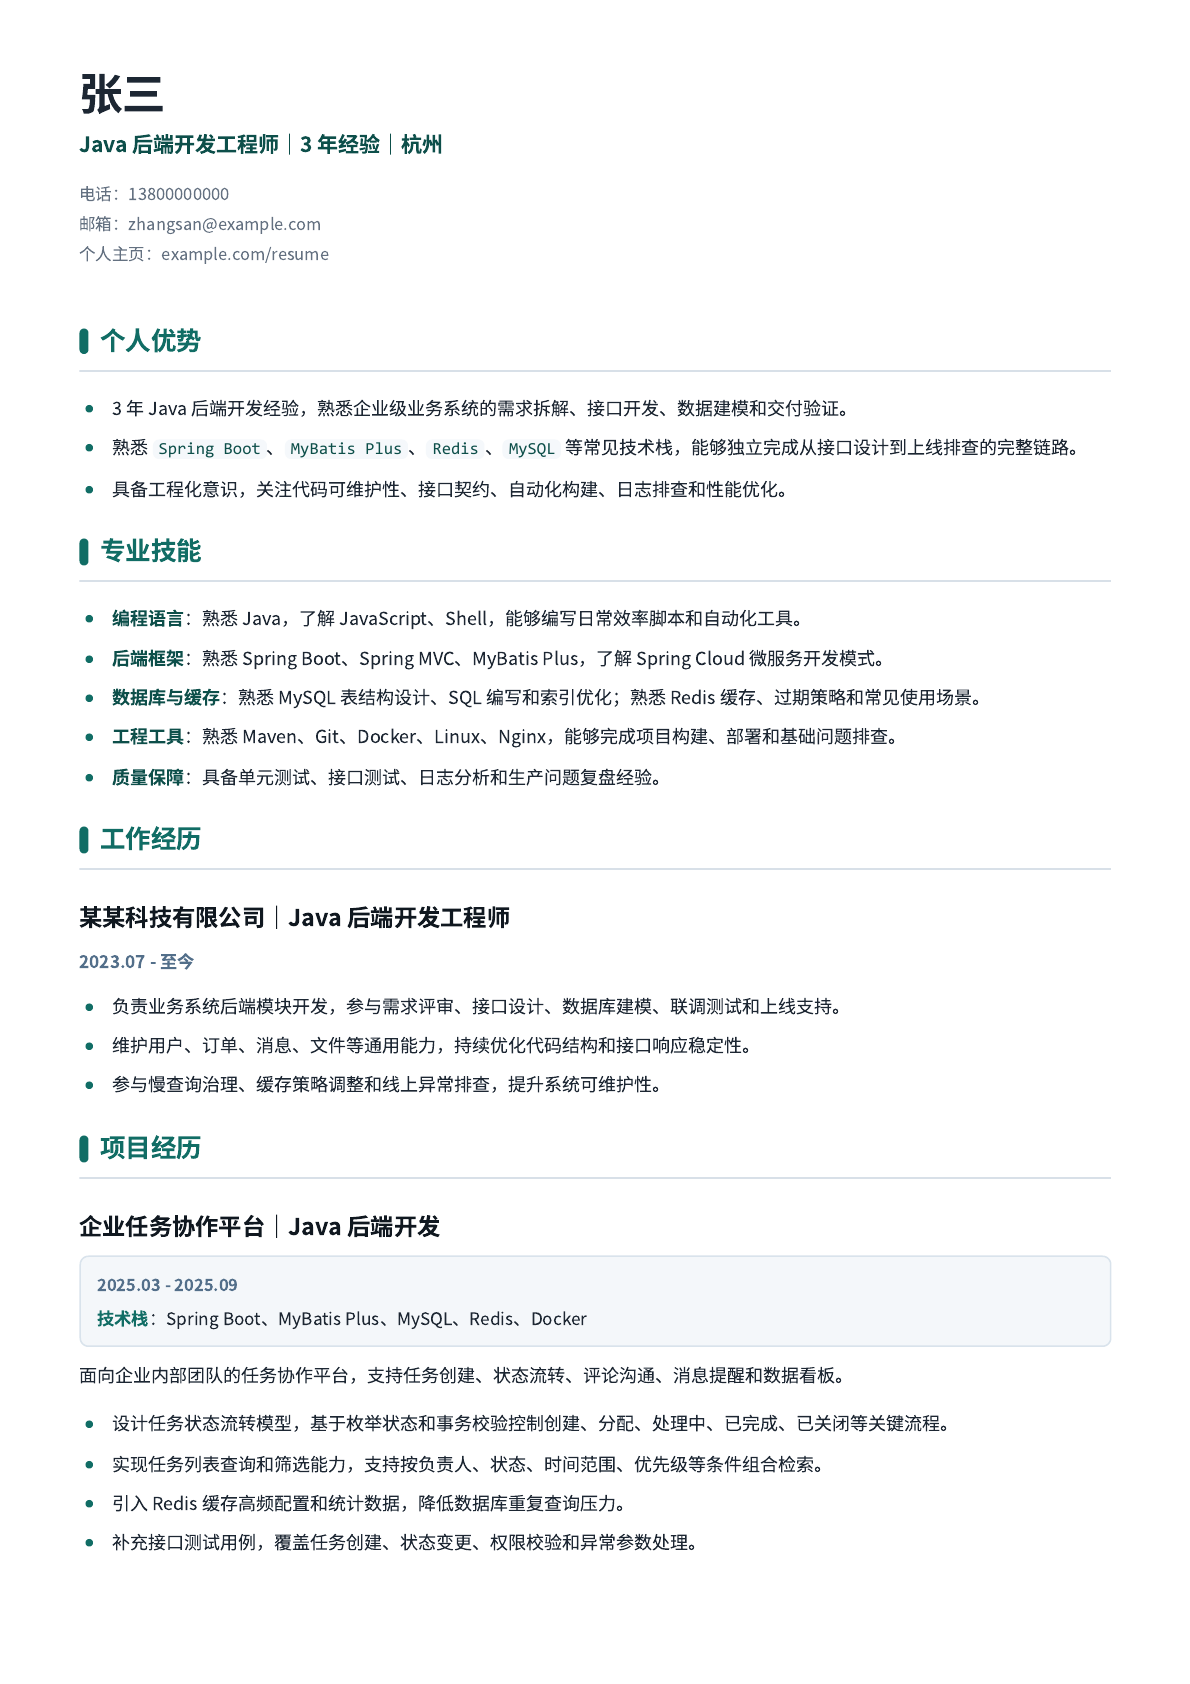
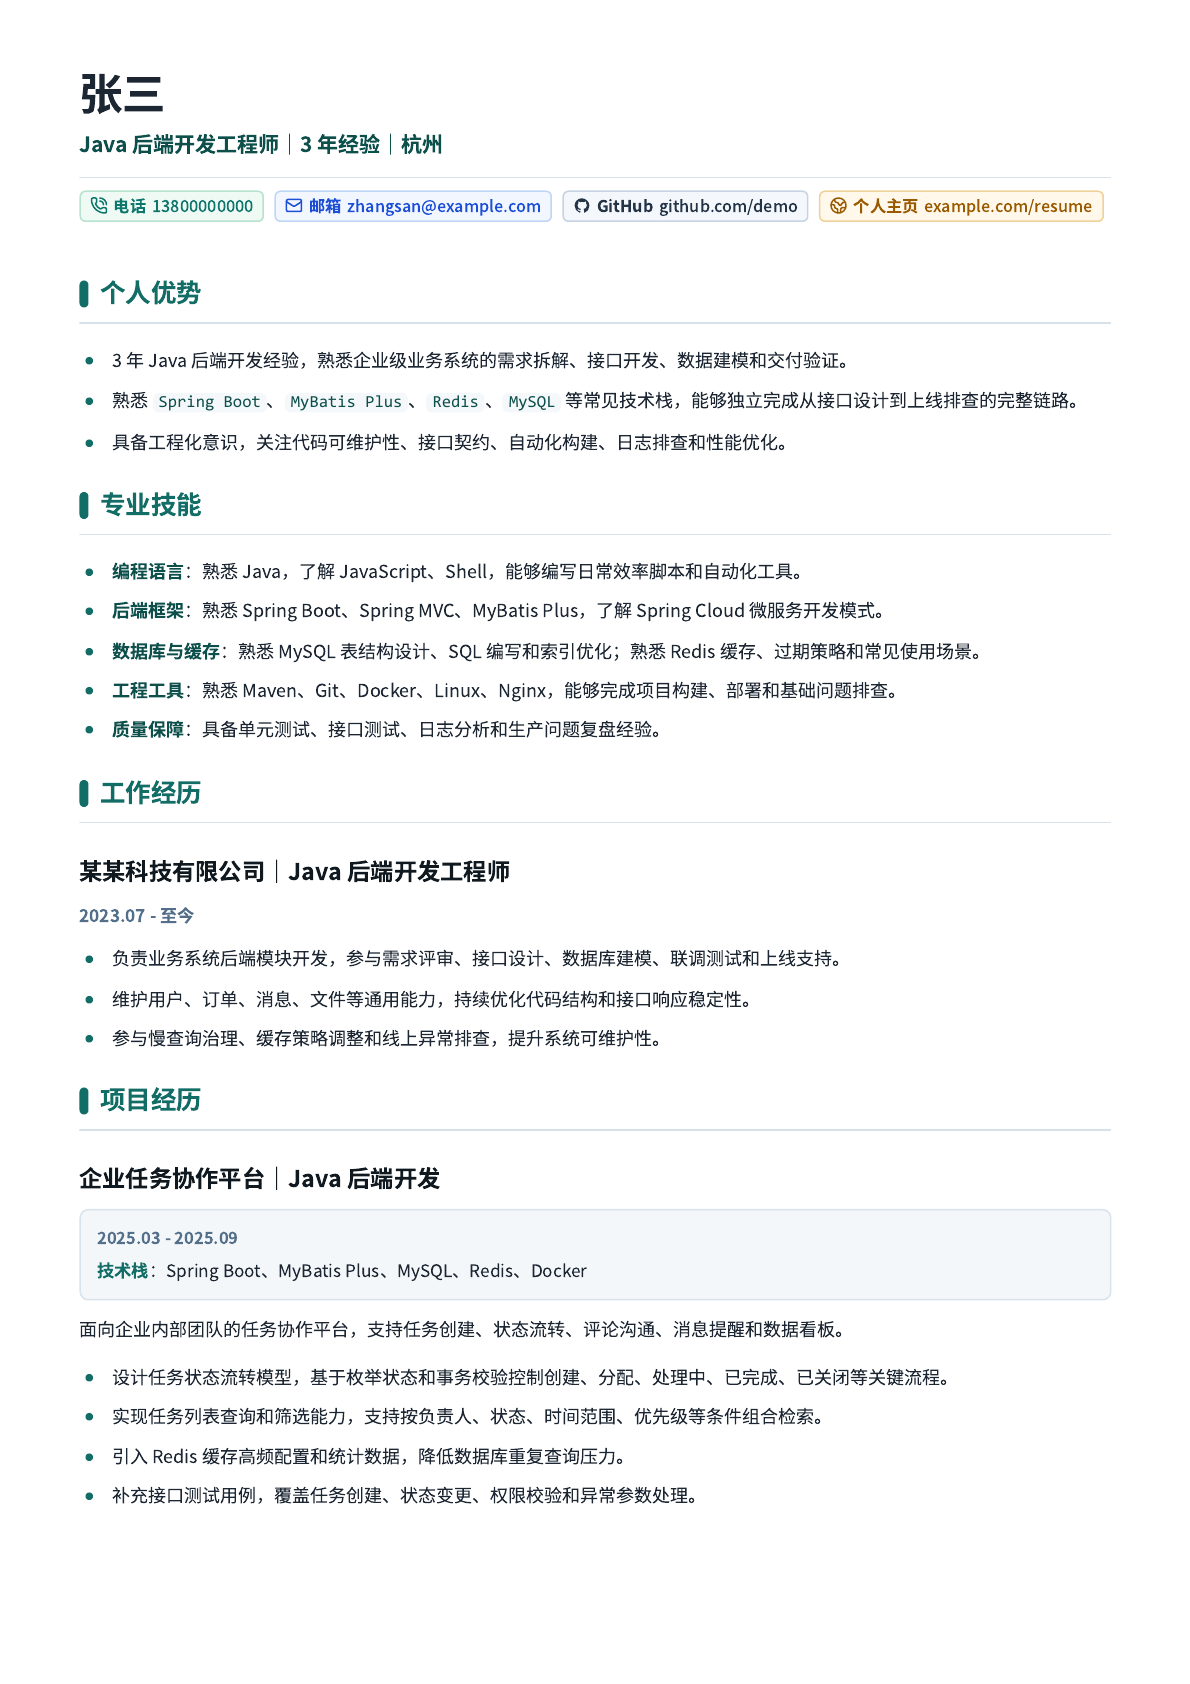
feat(resume): 优化联系方式图标展示

Changed region(s): [[0.0622, 0.0926, 0.9017, 0.9264], [0.684, 0.0926, 0.9328, 0.1544]]

diff --git a/styles/resume-single-column.css b/styles/resume-single-column.css
@@ -118,7 +118,7 @@ body { padding: 24px; }
 }
 
 .headline {
-  margin: 8px 0 10px;
+  margin: 8px 0 9px;
   color: var(--accent);
   font-size: 14px;
   font-weight: 600;
@@ -131,6 +131,111 @@ body { padding: 24px; }
   font-size: 11px;
   font-weight: 400;
   line-height: 1.85;
+}
+
+.contact-bar {
+  display: flex;
+  flex-wrap: wrap;
+  align-items: center;
+  gap: 6px 7px;
+  margin: 7px 0 0;
+  padding-top: 8px;
+  border-top: 1px solid var(--line);
+  color: var(--muted);
+  font-size: 10.8px;
+  font-weight: 500;
+  line-height: 1.45;
+}
+
+.contact-item {
+  --contact-bg: #f8fafc;
+  --contact-border: #dce5ee;
+  --contact-text: #415263;
+  --contact-hover-bg: var(--accent-wash);
+  --contact-hover-border: var(--accent-line);
+  --contact-hover-text: var(--accent-strong);
+  display: inline-flex;
+  align-items: center;
+  gap: 4px;
+  min-height: 20px;
+  padding: 2px 6px;
+  border: 1px solid var(--contact-border);
+  border-radius: 4px;
+  background: var(--contact-bg);
+  color: var(--contact-text);
+  text-decoration: none;
+  text-decoration-thickness: 1px;
+  text-underline-offset: 2px;
+}
+
+.contact-item:hover {
+  color: var(--contact-hover-text);
+  border-color: var(--contact-hover-border);
+  background: var(--contact-hover-bg);
+  text-decoration: none;
+}
+
+.contact-phone {
+  --contact-bg: #effaf5;
+  --contact-border: #b7e3cf;
+  --contact-text: #0f766e;
+  --contact-hover-bg: #e1f6ed;
+  --contact-hover-border: #81c8ad;
+  --contact-hover-text: #0b5f59;
+}
+
+.contact-mail {
+  --contact-bg: #f2f7ff;
+  --contact-border: #bfd6f6;
+  --contact-text: #1d4ed8;
+  --contact-hover-bg: #e8f1ff;
+  --contact-hover-border: #93b8ee;
+  --contact-hover-text: #1e40af;
+}
+
+.contact-github {
+  --contact-bg: #f4f7fb;
+  --contact-border: #c7d3e3;
+  --contact-text: #243447;
+  --contact-hover-bg: #edf3fb;
+  --contact-hover-border: #9db2cc;
+  --contact-hover-text: #0f172a;
+}
+
+.contact-site {
+  --contact-bg: #fff8eb;
+  --contact-border: #efd29a;
+  --contact-text: #9a5b00;
+  --contact-hover-bg: #fff0d4;
+  --contact-hover-border: #d8aa54;
+  --contact-hover-text: #7a4500;
+}
+
+.contact-icon {
+  width: 12px;
+  height: 12px;
+  flex: 0 0 auto;
+  display: block;
+  fill: none;
+  stroke: currentColor;
+  stroke-linecap: round;
+  stroke-linejoin: round;
+  stroke-width: 2;
+}
+
+.contact-brand-icon {
+  fill: currentColor;
+  stroke: none;
+}
+
+.contact-label {
+  color: inherit;
+  font-weight: 600;
+}
+
+.contact-value {
+  color: inherit;
+  font-weight: 500;
 }
 
 section { margin-top: 20px; }

diff --git a/README.md b/README.md
@@ -83,6 +83,11 @@ index.html
 resume.pdf
 ```
 
+## 项目文档
+
+- [Markdown 简历工程化手册](docs/guide/MD简历渲染手册.md)
+- [项目维护说明](docs/项目维护说明.md)
+
 ## 水印
 
 构建脚本会在简历最后一页页脚居中生成浅色水印：
@@ -102,7 +107,8 @@ PersonalResume/
 │   ├── fonts/             # 本地中文字体
 │   └── icons/             # 渲染用图标资源
 ├── docs/
-│   └── guide/             # Markdown 简历编写和发布说明
+│   ├── guide/             # Markdown 简历编写和发布说明
+│   └── 项目维护说明.md    # README、渲染手册和展示图片维护说明
 ├── export/                # 快捷 HTML 预览入口
 ├── scripts/               # 构建与检查脚本
 ├── styles/                # 公共样式模板

diff --git a/versions/sample-java-backend/resume.md b/versions/sample-java-backend/resume.md
@@ -4,6 +4,7 @@
 
 电话：13800000000
 邮箱：zhangsan@example.com
+GitHub：github.com/demo
 个人主页：example.com/resume
 
 ## 个人优势
@@ -33,7 +34,6 @@
 ## 项目经历
 
 ### 企业任务协作平台｜Java 后端开发
-
 
 **2025.03 - 2025.09**
 **技术栈**：Spring Boot、MyBatis Plus、MySQL、Redis、Docker
